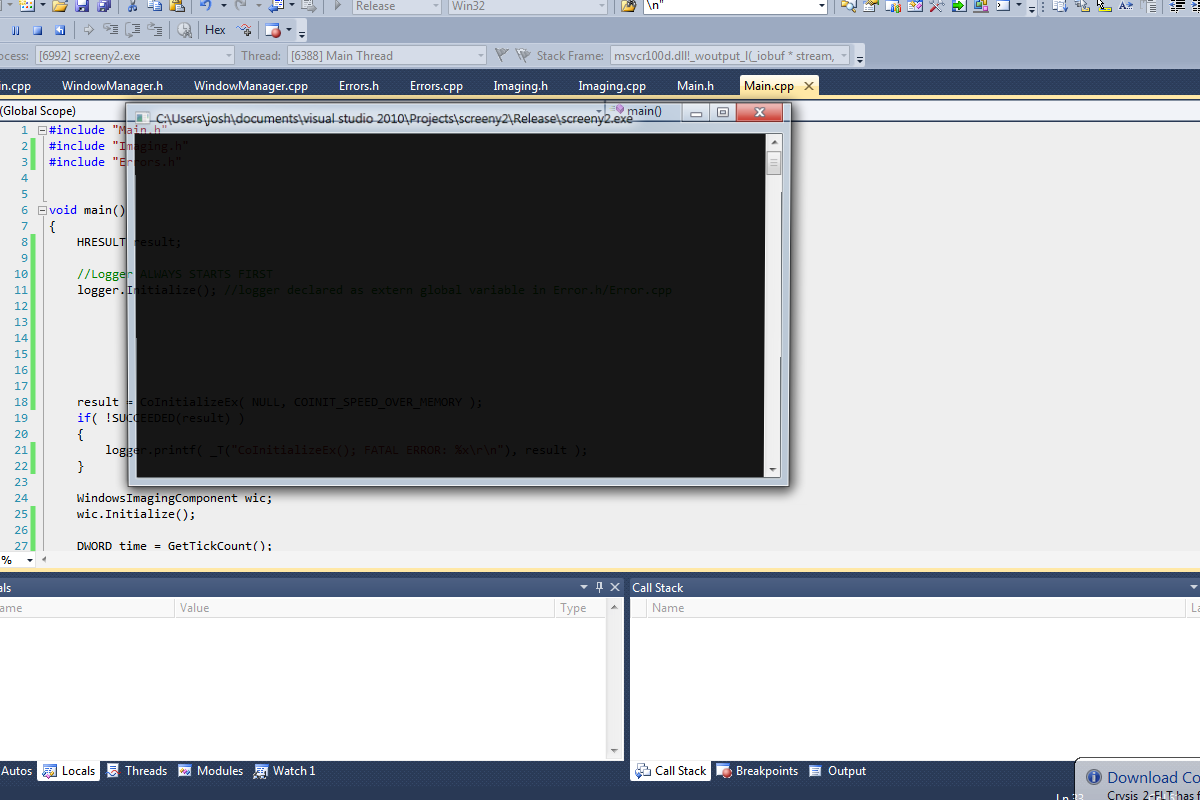
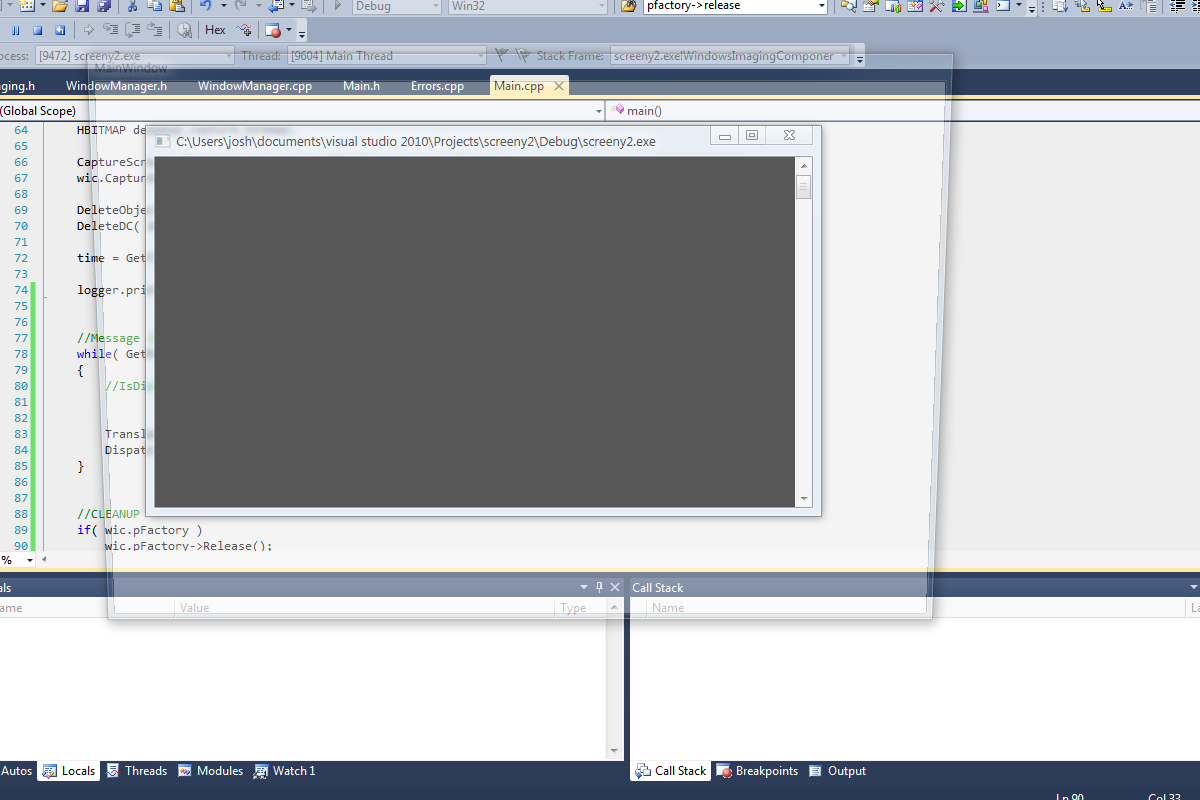
More WindowManager development
Window class registering, window procedure and message loop is set up.
WindowManager now has an Initialize() which creates a dummy
WS_OVERLAPPED window.
Moved IWICFactory::Release() out of the WindowsImagingComponent
destructor because the destructor is called *after* COM has been
uninitialized in the main method.

diff --git a/WindowManager.cpp b/WindowManager.cpp
@@ -1,27 +1,44 @@
 #include "WindowManager.h"
 #include "Errors.h"
 
-bool WindowManager::Initialize( WNDPROC windowproc )
+WindowManager main_window;
+
+bool RegisterWindowClass( WNDCLASSEX *wndclass, WNDPROC window_procedure )
 {
-	this->wndclass.cbSize = sizeof( WNDCLASSEX );
-	this->wndclass.lpszClassName = _T("MainWClass");
-	this->wndclass.lpfnWndProc = windowproc;
-	this->wndclass.hInstance = GetModuleHandle( NULL );
-	//this->wndclass.style = CS_DROPSHADOW;
+	memset( wndclass, NULL, sizeof( WNDCLASSEX ) );
+
+	wndclass->cbSize = sizeof( WNDCLASSEX );
+	wndclass->lpszClassName = _T("ScreenyWindowClass");
+	wndclass->lpfnWndProc = window_procedure;
+	wndclass->hInstance = GetModuleHandle( NULL );
+	//wndclass->style = CS_DROPSHADOW;
 	//LoadIconMetric( GetModuleHandle(NULL), MAKEINTRESOURCEW( IDI_ICON1 ), LIM_LARGE, &(wnd->hIcon) );
 
-	if( NULL == RegisterClassEx(&this->wndclass) )
+	if( RegisterClassEx( wndclass ) == NULL )
 	{
-		logger.printf( _T("WindowManager::Initialize()::CreateMainWindow()::RegisterClassex() error: %d\r\n"), GetLastError() );
+		logger.printf( _T("RegisterWindowClass()::RegisterClassEx() error: %d\r\n"), GetLastError() );
 		return false;
 	}
 
-	this->main_window = CreateWindowEx
+	return true;
+}
+
+bool WindowManager::Initialize( WNDCLASSEX wndclass_in )
+{
+	WNDCLASSEX temp;
+	if( GetClassInfoEx( GetModuleHandle(NULL), wndclass_in.lpszClassName, &temp ) == false )
+	{
+		logger.printf( _T("WindowManager::Initialize() error: Window Class is not registered!\r\n") );
+		return false;
+	}
+	this->wndclass = wndclass_in;
+
+	this->window = CreateWindowEx
 		(
 		WS_EX_TOPMOST, //extended styles
 		this->wndclass.lpszClassName, //class name
 		_T("MainWindow"), //window name
-		WS_POPUP, //style tags
+		WS_OVERLAPPED | WS_VISIBLE, //style tags
 		100, //horizontal position
 		100, //vertical position
 		900, //width
@@ -31,8 +48,7 @@ bool WindowManager::Initialize( WNDPROC windowproc )
 		GetModuleHandle(NULL), //some HINSTANCE pointer
 		NULL //Create Window Data?
 		);
-
-	if( this->main_window == NULL )
+	if( this->window == NULL )
 	{
 		logger.printf( _T("WindowManager::Initialize()::CreateMainWindow()::CreateWindowEx() error: %d\r\n"), GetLastError() );
 		return false;

diff --git a/Main.cpp b/Main.cpp
@@ -1,11 +1,37 @@
 #include "Main.h"
 #include "Imaging.h"
 #include "Errors.h"
+#include "WindowManager.h"
 
+LRESULT CALLBACK MainWindowProc ( HWND hwnd, UINT uMsg, WPARAM wParam, LPARAM lParam )
+{
+	switch( uMsg )
+	{
+	case WM_CLOSE:
+		if( DestroyWindow(hwnd) == false )
+		{
+			TCHAR errstr[256];
+			_stprintf( errstr, _T("MainWindowProc()::DestroyWindow() FATAL ERROR: %x"), GetLastError() );
+			MessageBox( NULL, errstr, _T("Screeny Error"), MB_ICONERROR|MB_SETFOREGROUND );
+			return false;
+		}
+		break;
+
+	case WM_DESTROY:
+		PostQuitMessage(0);
+		break;
+
+	default:
+		break;
+	}
+
+	return DefWindowProc( hwnd, uMsg, wParam, lParam );
+}
 
 void main()
 {
 	HRESULT result;
+	MSG wnd_msg;
 
 	//Logger ALWAYS STARTS FIRST
 	logger.Initialize(); //logger declared as extern global variable in Error.h/Error.cpp
@@ -14,19 +40,24 @@ void main()
 
 
 
+	//Initialize Main Window
+	WNDCLASSEX screeny_wnd_class = {0};
+	RegisterWindowClass( &screeny_wnd_class, MainWindowProc );
+	main_window.Initialize( screeny_wnd_class );
 
+	//Initialize COM
 	result = CoInitializeEx( NULL, COINIT_SPEED_OVER_MEMORY );
 	if( !SUCCEEDED(result) )
 	{
 		logger.printf( _T("CoInitializeEx(); FATAL ERROR: %x\r\n"), result );
 	}
 
-	WindowsImagingComponent wic;
+	//Initialize Windows Imaging Component (COM)
 	wic.Initialize();
 
 
 
-
+	//Capture screen
 	DWORD time = GetTickCount();
 
 	HDC desktop_capture_dc;
@@ -42,7 +73,23 @@ void main()
 
 	logger.printf( _T("Capture Time: %d\r\n"), time );
 
-	
 
-	Sleep( INFINITE );
+	//Message loop
+	while( GetMessage( &wnd_msg, NULL, 0, 0 ) )
+	{
+		//IsDialogMessage()
+
+
+		TranslateMessage(&wnd_msg);
+		DispatchMessage(&wnd_msg);
+	}
+
+
+	//CLEANUP
+	if( wic.pFactory )
+		wic.pFactory->Release();
+	CoUninitialize();
+	UnregisterClass( screeny_wnd_class.lpszClassName, GetModuleHandle(NULL) );
+
+	//Sleep( INFINITE );
 }

diff --git a/Imaging.cpp b/Imaging.cpp
@@ -1,6 +1,8 @@
 #include "Imaging.h"
 #include "Errors.h"
 
+WindowsImagingComponent wic;
+
 bool CaptureScreen( HDC *pcapture_dc, HBITMAP *phbmp )
 {
 	int errmsg;
@@ -17,21 +19,21 @@ bool CaptureScreen( HDC *pcapture_dc, HBITMAP *phbmp )
 	desktop_dc = GetDC( desktop_window );
 	if( !desktop_dc )
 	{
-		logger.printf( _T("CaptureScreen()::GetDC( desktop_window ); FATAL ERROR\r\n"));
+		logger.printf( _T("CaptureScreen()::GetDC(); FATAL ERROR\r\n"));
 		return false;
 	}
 
 	capture_dc = CreateCompatibleDC( desktop_dc );
 	if( !capture_dc )
 	{
-		logger.printf( _T("CaptureScreen()::CreateCompatibleDC( desktop_dc ); FATAL ERROR\r\n"));
+		logger.printf( _T("CaptureScreen()::CreateCompatibleDC(); FATAL ERROR\r\n"));
 		return false;
 	}
 
 	hbmp = CreateCompatibleBitmap( desktop_dc, desktop_rect.right-desktop_rect.left, desktop_rect.bottom-desktop_rect.top );
 	if( !hbmp )
 	{
-		logger.printf( _T("CaptureScreen()::CreateCompatibleBitmap( desktop_dc, width, height ); FATAL ERROR\r\n"));
+		logger.printf( _T("CaptureScreen()::CreateCompatibleBitmap(); FATAL ERROR\r\n"));
 		return false;
 	}
 
@@ -45,7 +47,7 @@ bool CaptureScreen( HDC *pcapture_dc, HBITMAP *phbmp )
 	errmsg = BitBlt( capture_dc, 0, 0, desktop_rect.right-desktop_rect.left, desktop_rect.bottom-desktop_rect.top, desktop_dc, 0, 0, SRCCOPY|CAPTUREBLT );
 	if( !errmsg )
 	{
-		logger.printf( _T("CaptureScreen()::BitBlt( capture_dc, 0, 0, width, height, desktop_dc, x, y, SRCCOPY|CAPTUREBLT ); FATAL ERROR: %x\r\n"), GetLastError() );
+		logger.printf( _T("CaptureScreen()::BitBlt(); FATAL ERROR: %x\r\n"), GetLastError() );
 		return false;
 	}
 

diff --git a/WindowManager.h b/WindowManager.h
@@ -1,17 +1,29 @@
 #include "Main.h"
 
+bool RegisterWindowClass( WNDCLASSEX *wndclass, WNDPROC window_procedure );
+
 struct WindowManager
 {
 	WNDCLASSEX wndclass;
-	HWND main_window;
+	HWND window;
 	HFONT primary_font;
 
 	WindowManager()
 	{
-		memset( &this->wndclass, NULL, sizeof( WNDCLASSEX ) );
-		main_window = NULL;
-		primary_font = NULL;
+		this->window = NULL;
+		this->primary_font = NULL;
+	}
+	~WindowManager()
+	{
+		//UnregisterClass should be called in the main method
+
+		//DestroyWindow should be called in WM_CLOSE in the windows procedure
+
+		if( this->primary_font )
+			DeleteObject( this->primary_font );
 	}
 
-	bool Initialize( WNDPROC windowproc );
+	bool Initialize( WNDCLASSEX wndclass_in );
 };
+
+extern WindowManager main_window;

diff --git a/Imaging.h b/Imaging.h
@@ -40,11 +40,15 @@ struct WindowsImagingComponent
 		if( this->pBitmapEncoder )
 			this->pBitmapEncoder->Release();
 
-		if( this->pFactory )
-			this->pFactory->Release();
+		//Unfortunately, the destructor is called after COM is uninitialized in the main method
+		//IWICFactory cannot be released in the destructor
+		/*if( this->pFactory )
+			this->pFactory->Release();*/
 	}
 
 	bool Initialize();
 	bool ConvertBitmapToPng( HBITMAP hbmp, unsigned int width, unsigned int height );
 	bool CaptureDCRegion( HDC source_dc, unsigned int x, unsigned int y, unsigned int width, unsigned int height );
 };
+
+extern WindowsImagingComponent wic;
